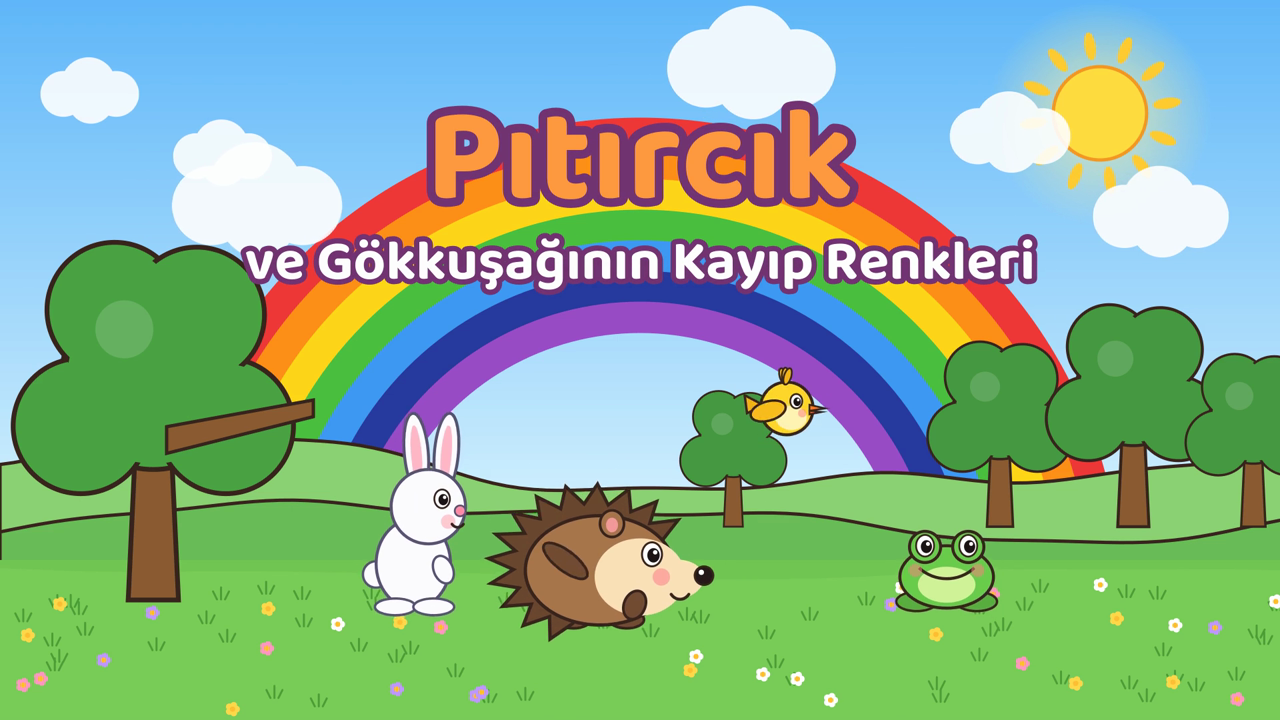
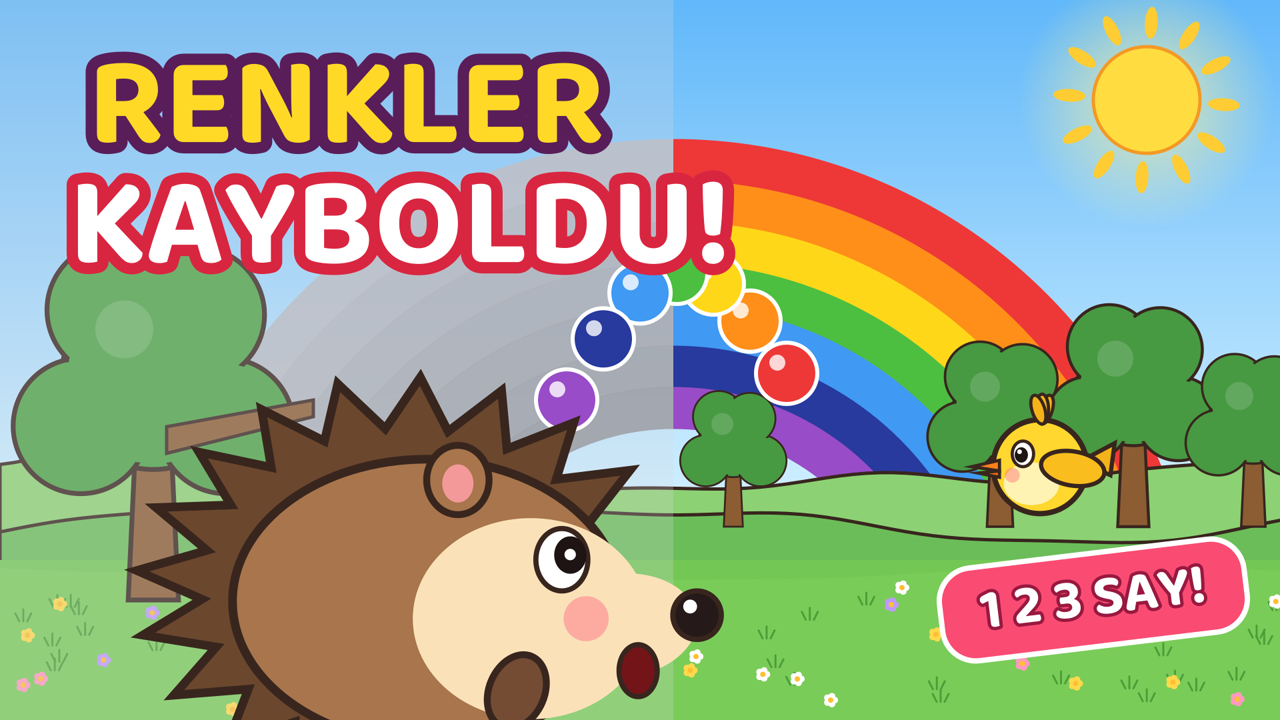
YouTube SEO paketi: başlık, açıklama, etiketler ve yeni küçük resim
vidIQ Türkiye arama verisine göre anahtar kelimeler; tıklanma puanı 78 olan başlık,
"RENKLER KAYBOLDU!" küçük resmi (thumbnail.py) ve çocuklara özel ayar notları.

Claude-Session: https://claude.ai/code/session_014AUhM4qaUBMYBfme37yyz7

diff --git a/cizgi-film/thumbnail.py b/cizgi-film/thumbnail.py
@@ -1,0 +1,40 @@
+# YouTube küçük resmi: "RENKLER KAYBOLDU!" — yarısı gri, yarısı renkli gökkuşağı
+import cairo, math, os
+from draw import *
+
+def main(out):
+    s = cairo.ImageSurface(cairo.FORMAT_ARGB32, W, H); cr = cairo.Context(s)
+    back, front = make_layers("intro")
+    cr.set_source_surface(back); cr.paint()
+    sun(cr, 1720, 150, 80, 0.3)
+    # sol yarı gri, sağ yarı renkli gökkuşağı
+    cr.save(); cr.rectangle(0, 0, 1010, H); cr.clip(); rainbow(cr, 1010, 1000, 760, 62, [0] * 7); cr.restore()
+    cr.save(); cr.rectangle(1010, 0, W, H); cr.clip(); rainbow(cr, 1010, 1000, 760, 62, [1] * 7); cr.restore()
+    cr.set_source_surface(front); cr.paint()
+    # sol tarafı soluklaştır (renkler kaybolmuş hissi)
+    cr.rectangle(0, 0, 1010, H); cr.set_source_rgba(0.5, 0.5, 0.55, 0.45)
+    cr.set_operator(cairo.OPERATOR_SATURATE); cr.fill(); cr.set_operator(cairo.OPERATOR_OVER)
+    cr.rectangle(0, 0, 1010, H); cr.set_source_rgba(0.85, 0.85, 0.88, 0.25); cr.fill()
+    # renk topları sağdan sepete uçuyor
+    for i in range(7):
+        k = i / 6
+        x, y = 1180 - k * 330, 560 - math.sin(k * PI) * 170 + k * 40
+        cr.arc(x, y, 46, 0, 2 * PI); paint(cr, COLORS[i], 6, (1, 1, 1))
+        cr.arc(x - 14, y - 16, 12, 0, 2 * PI); cr.set_source_rgba(1, 1, 1, 0.8); cr.fill()
+    # büyük, şaşkın Pıtırcık
+    hedgehog(cr, 640, 1110, 2.6, 0, mood="surprise", look=(0.5, -0.8))
+    bird(cr, 1560, 700, 1.6, 0.2, face=-1)
+    # başlık yazısı
+    text(cr, "RENKLER", 520, 150, 190, (1, 0.85, 0.15), (0.35, 0.12, 0.35), 34)
+    text(cr, "KAYBOLDU!", 600, 330, 190, (1, 1, 1), (0.85, 0.15, 0.25), 34)
+    # rozet
+    cr.save(); cr.translate(1640, 900); cr.rotate(-0.12)
+    rrect(cr, -230, -70, 460, 140, 50); cr.set_source_rgb(0.98, 0.3, 0.45); cr.fill_preserve()
+    cr.set_source_rgb(1, 1, 1); cr.set_line_width(8); cr.stroke()
+    text(cr, "1 2 3 SAY!", 0, -6, 84, (1, 1, 1), (0.6, 0.1, 0.25), 10)
+    cr.restore()
+    s.write_to_png(out)
+
+if __name__ == "__main__":
+    os.makedirs("build", exist_ok=True)
+    main("build/thumb_full.png")

diff --git a/cizgi-film/YOUTUBE.md b/cizgi-film/YOUTUBE.md
@@ -1,18 +1,57 @@
-# YouTube Yükleme Bilgileri
+# YouTube Yükleme Paketi — Pıtırcık ve Gökkuşağının Kayıp Renkleri
 
-## Başlık
-Pıtırcık ve Gökkuşağının Kayıp Renkleri 🌈 | Renkleri ve Sayıları Öğreniyorum | Çocuklar İçin Çizgi Film
+Anahtar kelimeler vidIQ'nun **Türkiye arama verisinden** seçildi (aylık tahmini arama, TR):
 
-## Açıklama
-Minik kirpi Pıtırcık, fırtınada kaybolan gökkuşağının 7 rengini arıyor! Pamuk tavşan, Cıvıl kuş ve Kurbağa Vırak ile birlikte renkleri buluyor, 1'den 6'ya kadar sayıyor ve yardımlaşmanın ne kadar güzel olduğunu öğreniyor. 3-6 yaş okul öncesi çocuklar için eğitici, etkileşimli Türkçe çizgi film.
+| Anahtar kelime | Aylık arama (TR) | Nerede kullanıldı |
+|---|---|---|
+| çizgi film | ~128.000 | başlık, açıklamanın ilk satırı, etiket |
+| çocuk şarkıları | ~95.000 | etiket (müzik/şarkı bölümü olduğu için) |
+| animasyon | ~68.000 | açıklama, etiket |
+| çocuk videoları | ~53.000 | açıklama, etiket, hashtag |
+| bebek şarkıları / bebek videoları | ~39.000 / ~28.000 | etiket |
+| eğitim | ~37.000 | açıklama, etiket |
+| eğitici çizgi filmler | ~37.000 | açıklama, etiket |
+| renkleri öğreniyorum | konu anahtarı | başlık, açıklama, hashtag |
 
-Bu bölümde öğreneceklerimiz:
-🔴 Gökkuşağının renkleri: kırmızı, turuncu, sarı, yeşil, mavi, lacivert, mor
+---
+
+## 1) Başlık (önerilen)
+
+```
+Gökkuşağının Renkleri Kayboldu! 🌈 Renkleri ve Sayıları Öğren | Çocuk Çizgi Filmi
+```
+vidIQ tıklanma puanı: **78/100**. Alternatif başlık 62 aldı:
+`Renkleri Öğreniyorum 🌈 Kayıp Gökkuşağı | Eğitici Çizgi Film | Pıtırcık Kirpi`
+
+Neden bu başlık: Merak uyandıran bir problemle başlıyor ("Kayboldu!"). Ebeveynin aradığı faydayı söylüyor ("Renkleri ve Sayıları Öğren"). En çok aranan kelimeyle bitiyor ("Çizgi Film"). Mobilde ilk ~45 karakter görünür, bu da hikâyenin kancasıdır.
+
+A/B testi için (YouTube Studio → "Test ve karşılaştır", 3 başlığa kadar):
+- `Renkler Kayboldu! 🌈 Pıtırcık ile Renkleri Öğreniyorum | Eğitici Çizgi Film`
+- `Kirpi Pıtırcık Gökkuşağını Kurtarıyor! 🦔🌈 Renkler ve Sayılar | Çocuklar İçin Çizgi Film`
+
+## 2) Küçük resim
+
+`cikti/thumbnail.png` (1280x720). Görselde "RENKLER KAYBOLDU!" yazısı var. Arka plan yarısı gri, yarısı renkli bir gökkuşağı; önde şaşkın Pıtırcık ve "1 2 3 SAY!" rozeti bulunuyor. Görsel başlıkla aynı cümleyi tekrarlamıyor, onu tamamlıyor; algoritma bu tutarlılığı ödüllendirir.
+
+## 3) Açıklama
+
+> İlk 2 satır arama sonucunda görünür; anahtar kelimeler orada.
+
+```
+Gökkuşağının renkleri kayboldu! Minik kirpi Pıtırcık ile bu eğitici çizgi filmde renkleri öğreniyorum, 1'den 6'ya kadar sayıyoruz. 3-6 yaş okul öncesi çocuklar için Türkçe çocuk videoları ve animasyon.
+
+Fırtınadan sonra gökkuşağı griye dönüyor. Bilge Baykuş, Pıtırcık'tan yedi rengi bulup geri getirmesini istiyor. Pıtırcık; Pamuk tavşan, Cıvıl kuş ve Kurbağa Vırak ile birlikte bahçeyi, tarlayı, gölü, dereyi ve lavanta tarlasını geziyor. Her durakta bir renk buluyor, sayı sayıyor ve arkadaşlarına yardım ediyor.
+
+🎨 Bu bölümde çocuğunuz neler öğrenecek?
+🔴 Gökkuşağının 7 rengi: kırmızı, turuncu, sarı, yeşil, mavi, lacivert, mor
 🔢 Sayma: 1, 2, 3, 4, 5, 6
-🤝 Paylaşma ve yardımlaşma
+🍎 Renklerle nesneler: elma kırmızı, muz sarı, üzüm mor…
+🤝 Paylaşma, yardımlaşma ve arkadaşlık
 🏃 Hareket: zıpla, kanat çırp, dans et!
 
-Bölümler:
+Video etkileşimlidir. Çocuğunuz soruları cevaplasın diye anlatıcı ara ara duraklıyor ("Bu renk ne renk? Hadi sen söyle!").
+
+⏱ Bölümler
 0:00 Başlangıç
 0:07 Fırtına ve gri gökkuşağı
 1:15 Kırmızı: Çilekleri sayalım
@@ -23,14 +62,36 @@ Bölümler:
 7:29 Mor: Lavanta tarlası
 8:49 Gökkuşağı yeniden renkleniyor!
 
-Yeni maceralar için abone olmayı unutma! 🦔
+👨👩👧 Ebeveynlere not: Videodan sonra evde renk avı oynayın! "Evde kırmızı ne var?" diye sorun ve birlikte sayın.
 
-## Etiketler
-çocuk çizgi filmi, türkçe çizgi film, renkleri öğreniyorum, sayıları öğreniyorum, okul öncesi eğitim, gökkuşağı renkleri, çocuk masalı, eğitici çizgi film, kirpi, Pıtırcık, 3-6 yaş, çocuklar için video, renkler, sayma
+🦔 Pıtırcık'ın yeni maceraları için kanala abone olun.
 
-## Ayarlar
-- Kitle: **Evet, çocuklara özel** (COPPA gereği zorunlu)
-- Altyazı: `altyazi.srt` dosyasını Türkçe altyazı olarak yükleyin
-- Küçük resim: `thumbnail.png`
-- Bitiş ekranı: son 16 saniyenin sağ tarafı boş bırakıldı (abone ol + video önerisi ekleyin)
-- Kategori: Eğitim
+#çizgifilm #renkleriöğreniyorum #çocukvideoları
+```
+
+Hashtag notu: Yalnızca **3 hashtag** kullanın; YouTube ilk üçünü başlığın üstünde gösterir, fazlası etkiyi azaltır.
+
+## 4) Etiketler (Studio → Etiketler, 500 karakter sınırı içinde)
+
+```
+çizgi film, çocuk çizgi filmi, eğitici çizgi film, eğitici çizgi filmler, renkleri öğreniyorum, renkleri öğren, renkler, gökkuşağı renkleri, sayıları öğreniyorum, sayı sayma, çocuk videoları, bebek videoları, okul öncesi eğitim, 3-6 yaş, türkçe çizgi film, animasyon, çocuk masalı, çocuk şarkıları, eğitim, kirpi, Pıtırcık, learn colors, colors for kids
+```
+
+## 5) Studio ayarları
+
+| Ayar | Değer | Neden |
+|---|---|---|
+| Kitle | **Evet, çocuklara özel** | Yasal zorunluluk (COPPA). YouTube Kids'de de gösterilir. |
+| Kategori | Eğitim | Eğitici içerik sinyali |
+| Video dili / altyazı dili | Türkçe | Türkiye aramalarında öne çıkma |
+| Altyazı | `cikti/altyazi.srt` yükle | Algoritma metni okur; arama görünürlüğü artar |
+| Başlık/açıklama çevirisi | İngilizce ekleyin: *"The Rainbow Lost Its Colors! 🌈 Learn Colors and Numbers \| Kids Cartoon (Turkish)"* | Yurtdışındaki Türk aileler ve yabancı dil öğrenenler |
+| Oynatma listesi | **"Renkleri Öğreniyorum – Pıtırcık"** ve **"Eğitici Çizgi Filmler"** oluşturup ekleyin | Çocuk kanallarında izlenme süresinin büyük kısmı oynatma listelerinden gelir |
+| Yayın zamanı | Cuma–Pazar 08:00–10:00 veya hafta içi 17:00–19:00 (TR) | Çocukların ebeveyn telefonunda/TV'de izlediği saatler |
+
+> "Çocuklara özel" videolarda **yorumlar, kartlar, bitiş ekranı öğeleri ve bildirim zili kapalıdır**. Bu yüzden büyümenin ana sinyalleri **küçük resim + başlık (tıklanma)**, **izlenme süresi** ve **oynatma listeleridir**. Videonun sonundaki "ABONE OL!" kartı ekranda zaten yazılı olarak görünüyor.
+
+## 6) Algoritma için sonraki adımlar
+- **Seri yapın:** Aynı karakterlerle haftada 1 bölüm yayınlayın (şekiller, hayvanlar, mevsimler, harfler). Aynı tarz küçük resim ve "Pıtırcık" adı, YouTube'un videoları birbirine önermesini sağlar.
+- **Uzun derleme:** 3–4 bölüm çıkınca bunları 30–60 dakikalık bir derlemede birleştirin ("Pıtırcık Tüm Bölümler"). Çocuk kanallarında en çok izlenme süresi derlemelerden gelir.
+- **Shorts:** Videodan 3 adet 30–45 saniyelik Shorts kesin ("Çilekleri sayalım 1-2-3-4-5", "Renkleri söyle!", "Kurbağa ile zıpla"). Shorts'u ana videoya bağlayın (Studio → İlgili video).

diff --git a/cizgi-film/README.md b/cizgi-film/README.md
@@ -13,5 +13,5 @@ python3 render.py        # kareleri çizer (build/part*.mp4)
 python3 audio_mix.py     # müzik + efekt + anlatım
 ffmpeg -f concat -safe 0 -i build/parts.txt -i build/final_audio.wav -map 0:v -map 1:a -c:v copy -c:a aac -b:a 192k -shortest cikti/pitircik_gokkusagi.mp4
 ```
-Senaryo `script.py` içinde; `render.py --png 60 135` ile tek kare önizleme alınabilir.
+Küçük resim: `python3 thumbnail.py`. Senaryo `script.py` içinde; `render.py --png 60 135` ile tek kare önizleme alınabilir.
 Yazı tipi: Baloo 2 (OFL).
